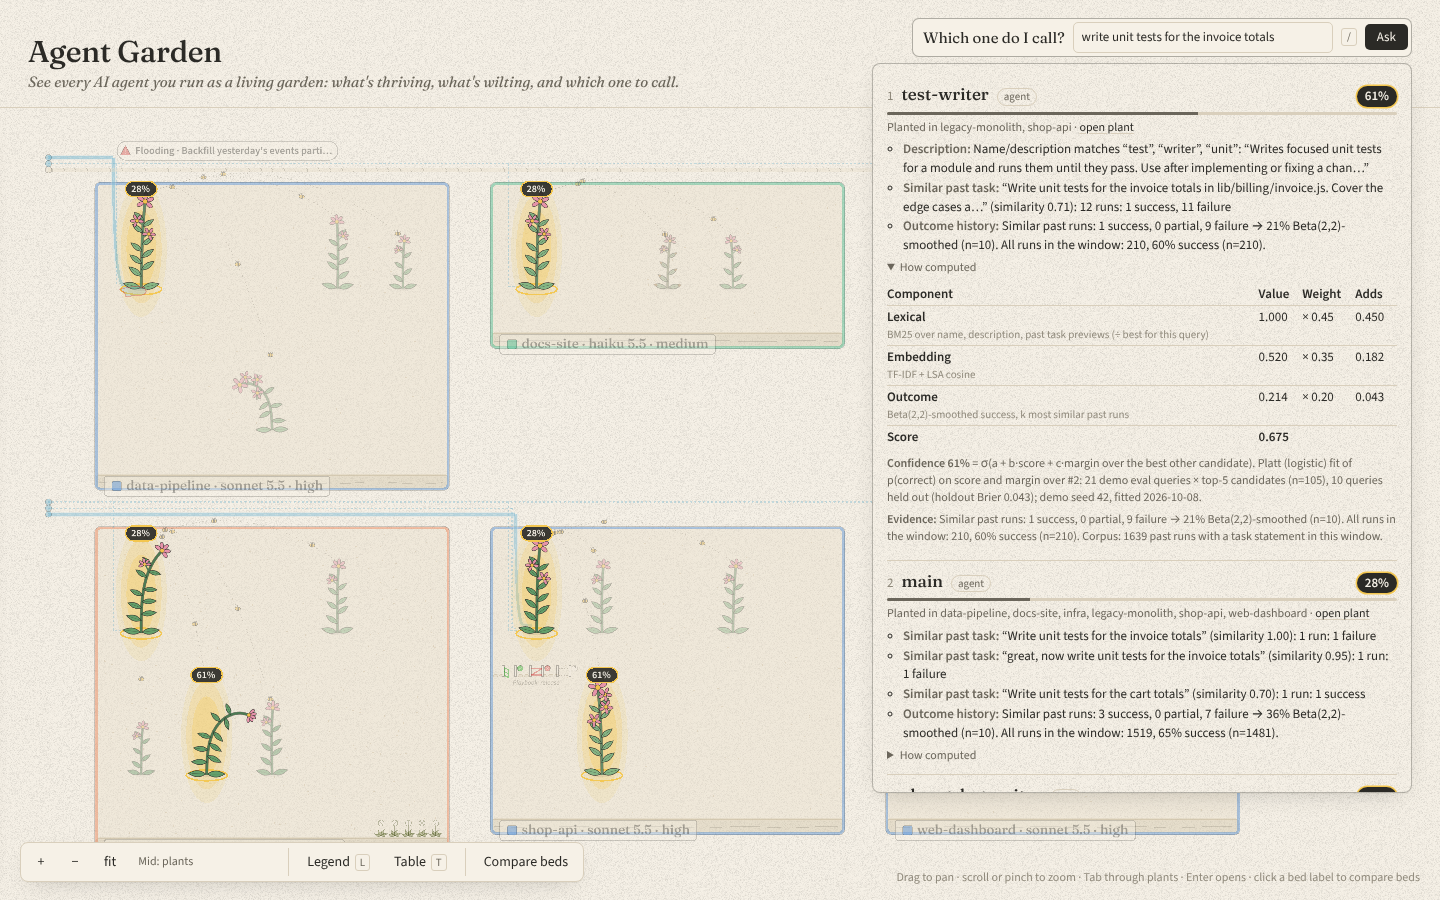
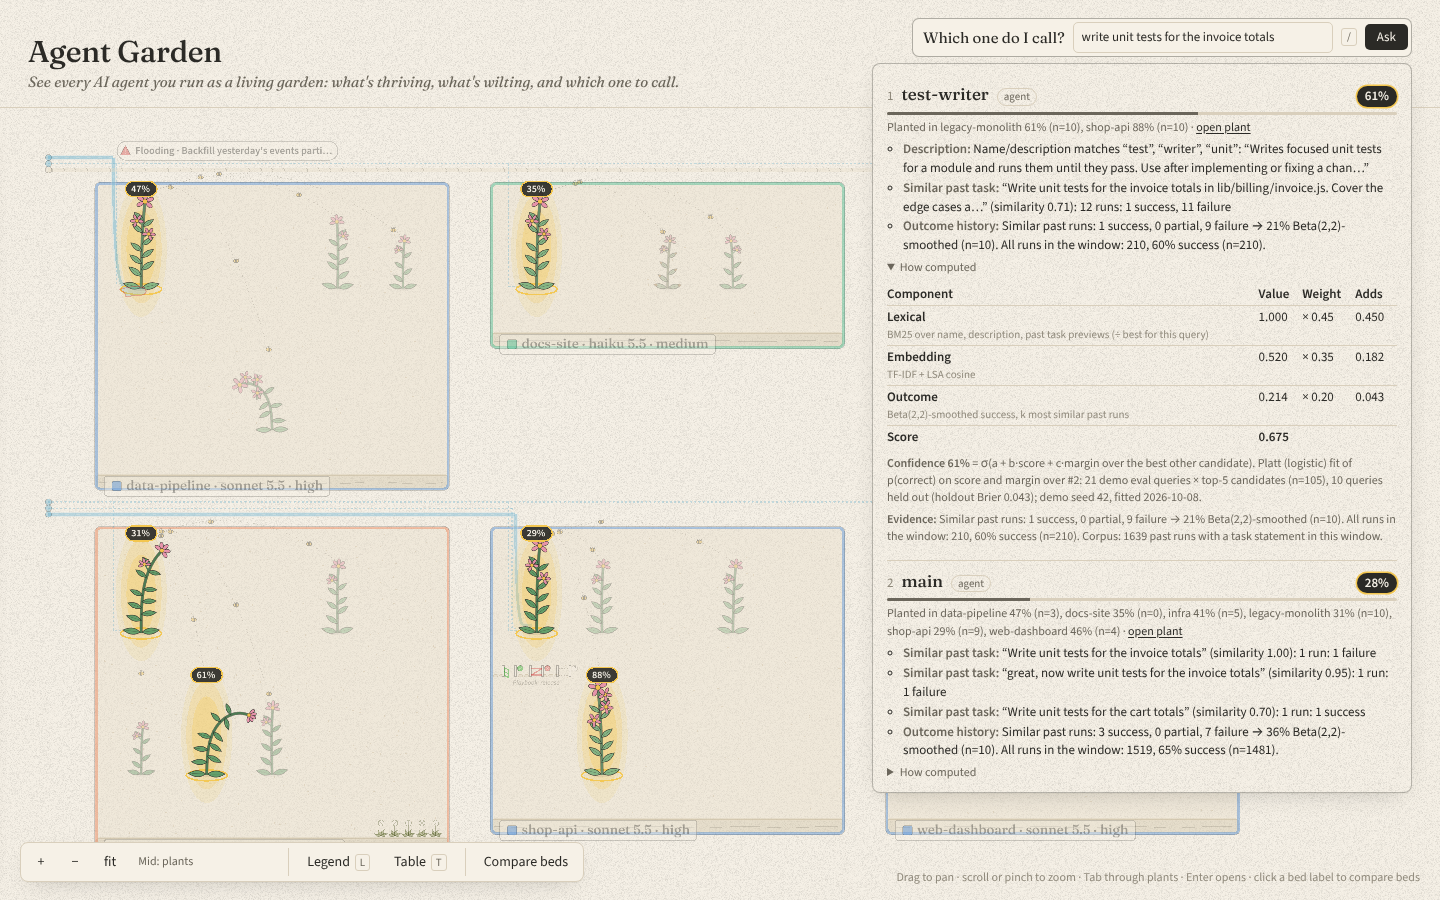
Router: per-bed outcome and confidence on each plant's badge
The same agent can thrive in one bed and fail in another; the badge on each plant now
recomputes the outcome component from that bed's similar runs only.

Claude-Session: https://claude.ai/code/session_01GbRxurt2wvSCJj9sXyy6tG

Changed region(s): [[0.625, 0.6533, 0.9688, 0.8711], [0.7188, 0.1244, 0.875, 0.1556], [0.9375, 0.8711, 0.9688, 0.9022]]

diff --git a/packages/router/src/router.ts b/packages/router/src/router.ts
@@ -38,6 +38,8 @@ export interface RouterRunInput {
   /** Redacted, truncated task preview (from the store). */
   preview: string;
   label: OutcomeLabel;
+  /** The planting (agent in bed) that ran it, for per-bed outcomes. */
+  plantId?: ID;
   /** Candidate keys (`candidateKey(kind, id)`) this run counts for: its agent and any skill it invoked. */
   candidateKeys: string[];
 }
@@ -78,6 +80,8 @@ interface TaskDoc {
 interface CandidateTask {
   task: number;
   labels: OutcomeLabel[];
+  /** Planting of each run in `labels` (same order). */
+  plants: (ID | undefined)[];
   weight: number;
 }
 
@@ -128,7 +132,7 @@ export function buildRouterIndex(input: RouterInput): RouterIndex {
   // Unique task texts (stable order: first seen in the input order of runs, which is by start time).
   const taskIdx = new Map<string, number>();
   const taskTexts: string[] = [];
-  const perCandidate = new Map<string, Map<number, OutcomeLabel[]>>();
+  const perCandidate = new Map<string, Map<number, { label: OutcomeLabel; plantId?: ID }[]>>();
   let runsIndexed = 0;
   for (const r of input.runs) {
     const owners = r.candidateKeys.map((k) => byKey.get(k)).filter((c) => c !== undefined);
@@ -150,9 +154,13 @@ export function buildRouterIndex(input: RouterInput): RouterIndex {
       taskTexts.push(text);
     }
     for (const c of owners) {
-      const m = perCandidate.get(c.key) ?? new Map<number, OutcomeLabel[]>();
+      const m =
+        perCandidate.get(c.key) ?? new Map<number, { label: OutcomeLabel; plantId?: ID }[]>();
       perCandidate.set(c.key, m);
-      m.set(ti, [...(m.get(ti) ?? []), r.label]);
+      m.set(ti, [
+        ...(m.get(ti) ?? []),
+        { label: r.label, ...(r.plantId ? { plantId: r.plantId } : {}) },
+      ]);
     }
   }
 
@@ -169,10 +177,11 @@ export function buildRouterIndex(input: RouterInput): RouterIndex {
     add(tokenize(profiles[i]!), PROFILE_WEIGHT);
     const vec = embedder.embed(profiles[i]!);
     c.profileVec = vec.some((x) => x !== 0) ? vec : null;
-    for (const [task, labels] of perCandidate.get(c.key) ?? []) {
+    for (const [task, runs] of perCandidate.get(c.key) ?? []) {
+      const labels = runs.map((r) => r.label);
       const mean = labels.reduce((s, l) => s + RUN_WEIGHT[l], 0) / labels.length;
       const weight = mean * (1 + Math.log(labels.length));
-      c.tasks.push({ task, labels, weight });
+      c.tasks.push({ task, labels, plants: runs.map((r) => r.plantId), weight });
       add(tokenize(taskTexts[task]!), weight);
     }
     return tf;
@@ -203,6 +212,8 @@ interface Scored {
   score: number;
   neighbors: { task: number; sim: number; labels: OutcomeLabel[] }[];
   knn: { sum: number; n: number; counts: Record<OutcomeLabel, number> };
+  /** Outcome kNN restricted to each planting's own runs. */
+  perPlant: { plantId: ID; outcome: number; n: number; score: number }[];
 }
 
 /** Score every candidate (unsorted order = index order). Exposed for evaluation. */
@@ -216,7 +227,12 @@ export function scoreAll(index: RouterIndex, query: string, opts: RouteOptions =
 
   return index.candidates.map((entry, i) => {
     const sims = entry.tasks
-      .map((t) => ({ task: t.task, sim: cosine(q, index.tasks[t.task]!.vec), labels: t.labels }))
+      .map((t) => ({
+        task: t.task,
+        sim: cosine(q, index.tasks[t.task]!.vec),
+        labels: t.labels,
+        plants: t.plants,
+      }))
       .sort((a, b) => b.sim - a.sim || a.task - b.task);
     const top3 = sims.slice(0, 3);
     const taskSim = top3.length ? top3.reduce((s, x) => s + x.sim, 0) / top3.length : null;
@@ -233,7 +249,7 @@ export function scoreAll(index: RouterIndex, query: string, opts: RouteOptions =
     const neighbors: Scored['neighbors'] = [];
     for (const s of sims) {
       if (taken >= k || s.sim < minSim) break;
-      neighbors.push(s);
+      neighbors.push({ task: s.task, sim: s.sim, labels: s.labels });
       for (const l of s.labels) {
         if (taken >= k) break;
         taken++;
@@ -247,6 +263,28 @@ export function scoreAll(index: RouterIndex, query: string, opts: RouteOptions =
     }
     const outcome = betaSmoothed(sum, n);
     const lex = lexical[i] ?? 0;
+    const shared = w.lexical * lex + w.embedding * embedding;
+    // Same walk per planting, counting only that planting's runs: an agent can thrive in one bed
+    // and fail in another, and the badge on each plant should say which.
+    const perPlant = entry.input.plantIds.map((plantId) => {
+      let ps = 0;
+      let pn = 0;
+      let pt = 0;
+      for (const s of sims) {
+        if (pt >= k || s.sim < minSim) break;
+        s.labels.forEach((l, j) => {
+          if (pt >= k || s.plants[j] !== plantId) return;
+          pt++;
+          const c = successCredit(l);
+          if (c !== null) {
+            ps += c;
+            pn++;
+          }
+        });
+      }
+      const o = betaSmoothed(ps, pn);
+      return { plantId, outcome: o, n: pn, score: shared + w.outcome * o };
+    });
     return {
       entry,
       lexical: lex,
@@ -255,6 +293,7 @@ export function scoreAll(index: RouterIndex, query: string, opts: RouteOptions =
       score: w.lexical * lex + w.embedding * embedding + w.outcome * outcome,
       neighbors,
       knn: { sum, n, counts },
+      perPlant,
     };
   });
 }
@@ -355,6 +394,13 @@ export function route(index: RouterIndex, query: string, opts: RouteOptions = {}
       components: { lexical: s.lexical, embedding: s.embedding, outcome: s.outcome },
       confidence: applyCalibration(cal, s.score, m[i] ?? 0),
       reasons: reasonsFor(s, terms, index),
+      // The margin shifts with the planting's own score; calibration was fitted per candidate.
+      plantings: s.perPlant.map((p) => ({
+        plantId: p.plantId,
+        outcome: p.outcome,
+        n: p.n,
+        confidence: applyCalibration(cal, p.score, (m[i] ?? 0) + p.score - s.score),
+      })),
     })),
   };
 }

diff --git a/packages/router/src/router.test.ts b/packages/router/src/router.test.ts
@@ -200,3 +200,41 @@ describe('fitLogistic', () => {
     expect(fit.wMargin).toBeCloseTo(truth.wMargin, 0);
   });
 });
+
+describe('per-planting outcome', () => {
+  it('gives each bed its own outcome and confidence from that bed’s similar runs only', () => {
+    const tw = candidateKey('agent', 'tw');
+    const mk = (bed: string, labels: OutcomeLabel[]) =>
+      labels.map((label, i) => ({
+        id: `${bed}-${i}`,
+        preview: 'Write unit tests for the invoice totals module',
+        label,
+        plantId: bed,
+        candidateKeys: [tw],
+      }));
+    const idx = buildRouterIndex({
+      candidates: [
+        {
+          kind: 'agent',
+          id: 'tw',
+          name: 'test-writer',
+          description: 'Writes focused unit tests for a module.',
+          plantIds: ['shop', 'legacy'],
+        },
+      ],
+      runs: [
+        ...mk('shop', ['success', 'success', 'success', 'success']),
+        ...mk('legacy', ['failure', 'failure', 'failure', 'failure']),
+      ],
+    });
+    const [c] = route(idx, 'write unit tests for invoice totals').candidates;
+    const shop = c!.plantings!.find((p) => p.plantId === 'shop')!;
+    const legacy = c!.plantings!.find((p) => p.plantId === 'legacy')!;
+    expect(shop.n).toBe(4);
+    expect(legacy.n).toBe(4);
+    expect(shop.outcome).toBeCloseTo((4 + 2) / (4 + 4)); // Beta(2,2)
+    expect(legacy.outcome).toBeCloseTo(2 / 8);
+    expect(shop.confidence).toBeGreaterThan(c!.confidence);
+    expect(legacy.confidence).toBeLessThan(c!.confidence);
+  });
+});

diff --git a/apps/web/src/components/RouterBox.tsx b/apps/web/src/components/RouterBox.tsx
@@ -141,7 +141,16 @@ export const RouterBox = forwardRef<RouterBoxHandle, Props>(function RouterBox(
                   rank={i + 1}
                   method={result.method}
                   beds={[
-                    ...new Set(c.plantIds.map((p) => bedName.get(plantBed.get(p) ?? '') ?? '')),
+                    ...new Set(
+                      c.plantIds.map((p) => {
+                        const bed = bedName.get(plantBed.get(p) ?? '') ?? '';
+                        const own = c.plantings?.find((x) => x.plantId === p);
+                        // Per-bed confidence: the outcome part uses only that bed's similar runs.
+                        return bed && own && c.plantIds.length > 1
+                          ? `${bed} ${formatConfidence(own.confidence)} (n=${own.n})`
+                          : bed;
+                      }),
+                    ),
                   ].filter(Boolean)}
                   onSelect={
                     c.plantIds[0]

diff --git a/packages/core/src/encodings.ts b/packages/core/src/encodings.ts
@@ -372,7 +372,7 @@ export const routerHighlight: Encoding<{ candidate: boolean }> = {
   metric: 'Router suggestion for the current “Which one do I call?” question',
   howComputed:
     'Glowing plants run a suggested agent or skill. Score = 0.45·BM25 (normalized) + 0.35·TF-IDF+LSA cosine + ' +
-    '0.20·Beta(2,2)-smoothed success on the k most similar past runs. The badge is the calibrated confidence: ' +
+    '0.20·Beta(2,2)-smoothed success on the k most similar past runs. Each plant’s badge recomputes the outcome part from that bed’s own similar runs, so the same agent can read high in one bed and low in another. The badge is the calibrated confidence: ' +
     'a logistic fit of score and margin over #2 on the eval queries. Open “how computed” in the results list for the inputs and n.',
   action:
     'Call the glowing plant with the highest badge; check n before trusting a low-evidence suggestion.',

diff --git a/apps/web/src/data/router.ts b/apps/web/src/data/router.ts
@@ -33,7 +33,10 @@ export function highlightFor(result: RouterResult | null): {
 } {
   const best = new Map<ID, number>();
   for (const c of result?.candidates ?? [])
-    for (const id of c.plantIds) best.set(id, Math.max(best.get(id) ?? 0, c.confidence));
+    for (const id of c.plantIds) {
+      const own = c.plantings?.find((p) => p.plantId === id)?.confidence ?? c.confidence;
+      best.set(id, Math.max(best.get(id) ?? 0, own));
+    }
   const badges: Record<ID, string> = {};
   for (const [id, conf] of best) badges[id] = formatConfidence(conf);
   return { plantIds: [...best.keys()], badges };

diff --git a/packages/core/src/views.ts b/packages/core/src/views.ts
@@ -463,6 +463,11 @@ export interface RouterCandidate {
   /** 0..1, calibrated on the eval set (see `RouterResult.method.calibration`). */
   confidence: number;
   reasons: { kind: 'description_match' | 'similar_past_task' | 'outcome_history'; text: string }[];
+  /**
+   * Per planting (the same candidate in each bed): the outcome component recomputed from that bed's
+   * similar past runs only, and the confidence that gives. Lexical and embedding are shared.
+   */
+  plantings?: { plantId: ID; outcome: number; n: number; confidence: number }[];
 }
 
 export interface RouterResult {

diff --git a/packages/server/src/route.ts b/packages/server/src/route.ts
@@ -22,8 +22,12 @@ export function routerInputFrom(data: GardenData, garden: GardenView): RouterInp
     set.add(c.skillId);
     skillsByRun.set(c.runId, set);
   }
+  const plantOf = new Map(garden.plants.map((p) => [`${p.agentId}|${p.bedId}`, p.id]));
   const runs: RouterRunInput[] = data.runs.map((r) => ({
     id: r.id,
+    ...(plantOf.has(`${r.agentId}|${r.familyId}`)
+      ? { plantId: plantOf.get(`${r.agentId}|${r.familyId}`)! }
+      : {}),
     preview: r.taskPreview,
     label: r.label,
     candidateKeys: [

diff --git a/PROGRESS.md b/PROGRESS.md
@@ -466,8 +466,14 @@ Verification:
   other plants and beds dimmed. The reasons surface the demo story: on similar invoice-totals
   tasks test-writer went 1 success / 9 failure → 21% outcome (n = 10).
 
+Follow-up (same day): **per-bed badges.** The outcome component is now also computed per planting
+(only that bed's similar runs), and each plant's badge and the results list show it. For "write unit
+tests for the invoice totals", test-writer reads 88% in shop-api (n=10) and 61% in legacy-monolith
+(n=10); before, both plants showed 61%. Unit test: two beds with opposite histories get opposite
+per-bed outcomes. The eval still ranks candidates (not plantings); its numbers are unchanged.
+
 Known gaps:
-- **Not bed-aware.** The router ranks agents and skills, not plantings. test-writer gets one
+- ~~Not bed-aware.~~ Fixed by per-bed badges (above). The router ranks agents and skills, not plantings. test-writer gets one
   confidence even though it thrives in shop-api and wilts in legacy-monolith. The outcome reason
   shows this, but the badge doesn't. A `bed` parameter (outcome kNN per planting) is the natural next step.
 - The eval is small (31 queries, 10 held out) and written by the person who built the router.
